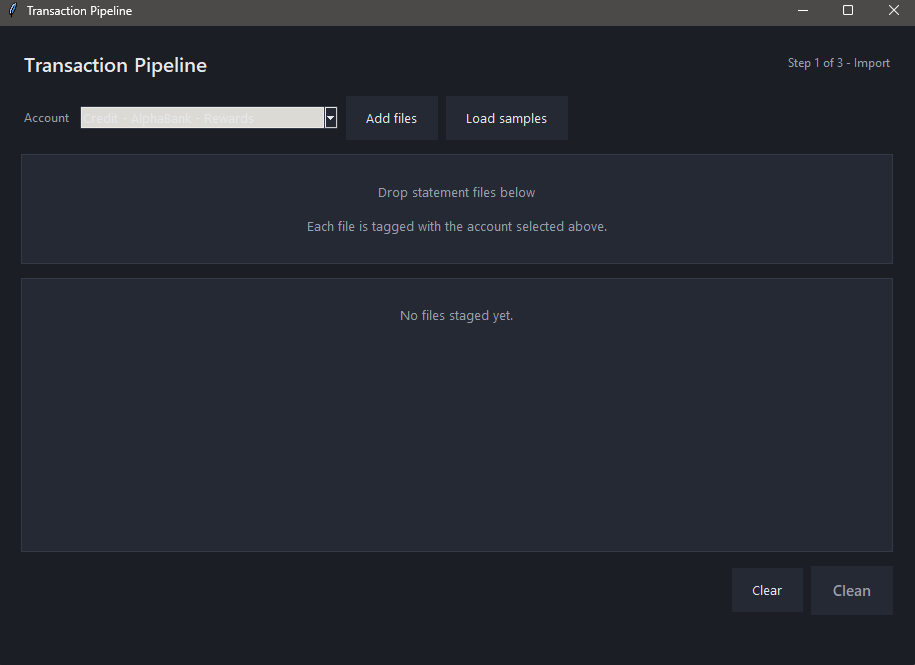
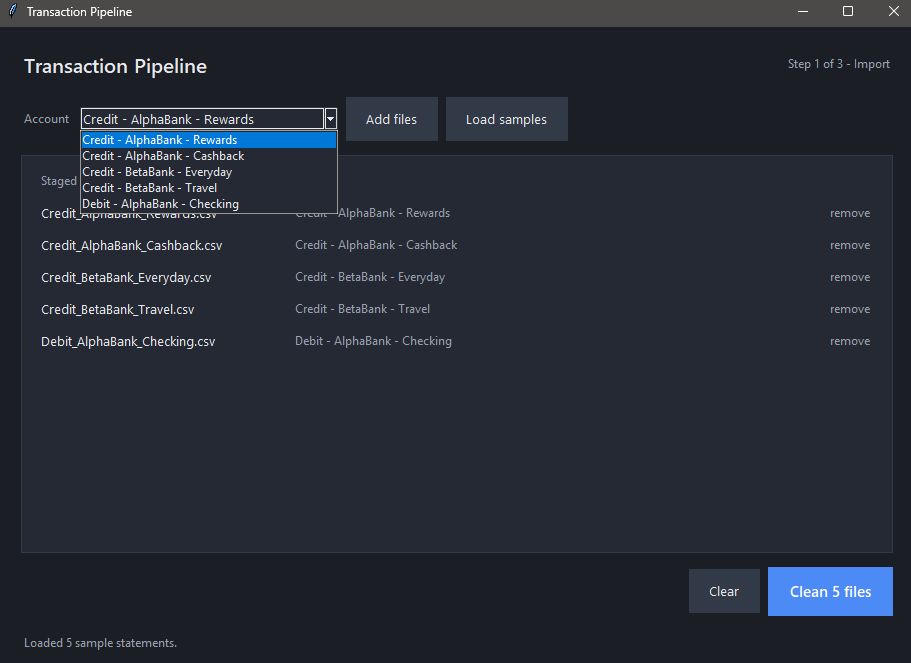
replace the screenshots with the current interface

diff --git a/README.md b/README.md
@@ -10,9 +10,9 @@ categorizes them, and remembers every answer so it only ever asks once.
 
 ## Screens
 
-Stage files against the account they came from:
+Stage each file against the account it came from:
 
-![The import view, with the account dropdown and drop zone](screenshots/import.png)
+![The import view, with five sample statements staged](screenshots/import.png)
 
 Name anything the maps did not recognize, once, with the transaction in front
 of you:
